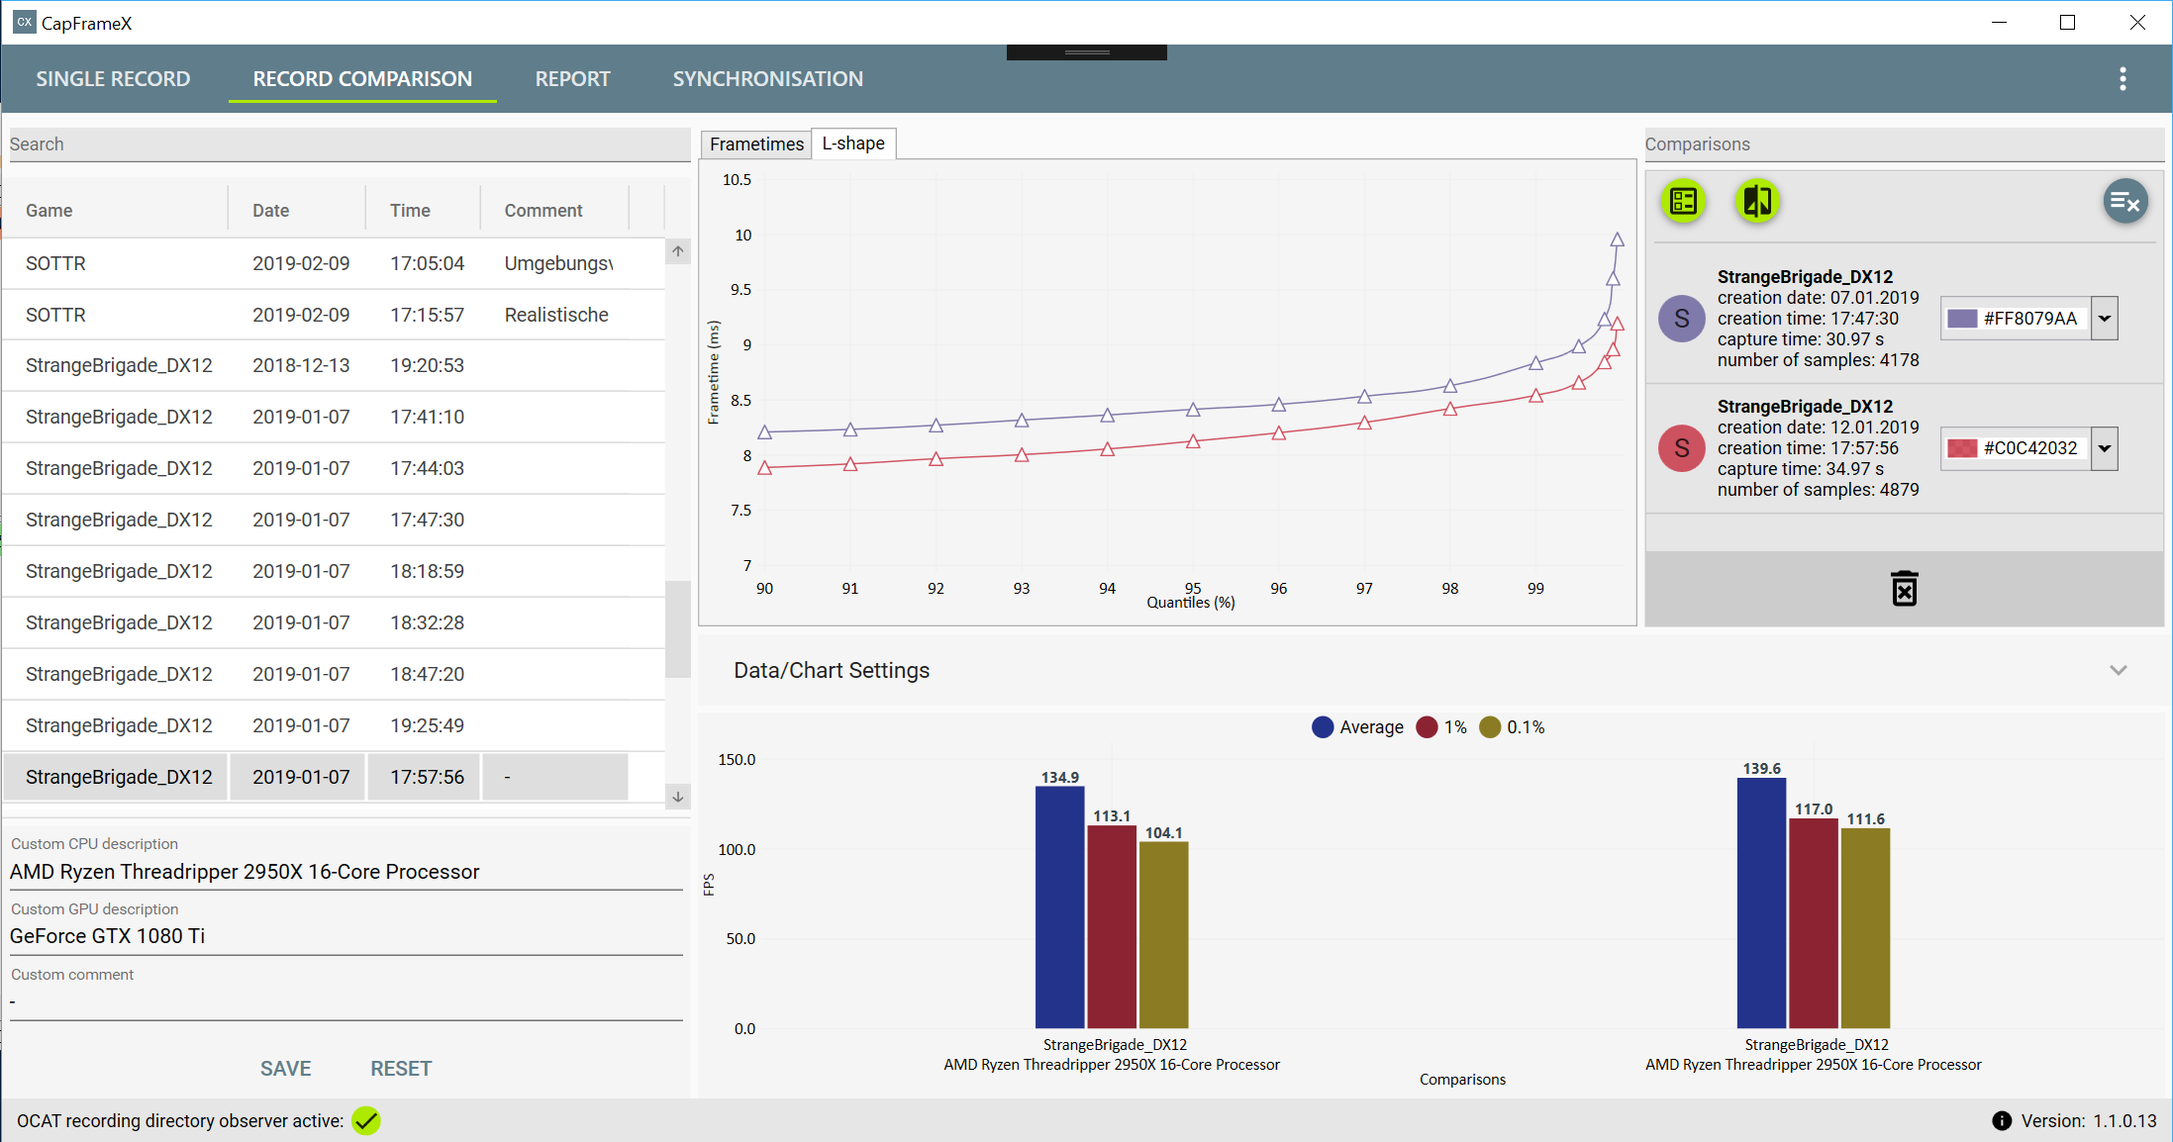
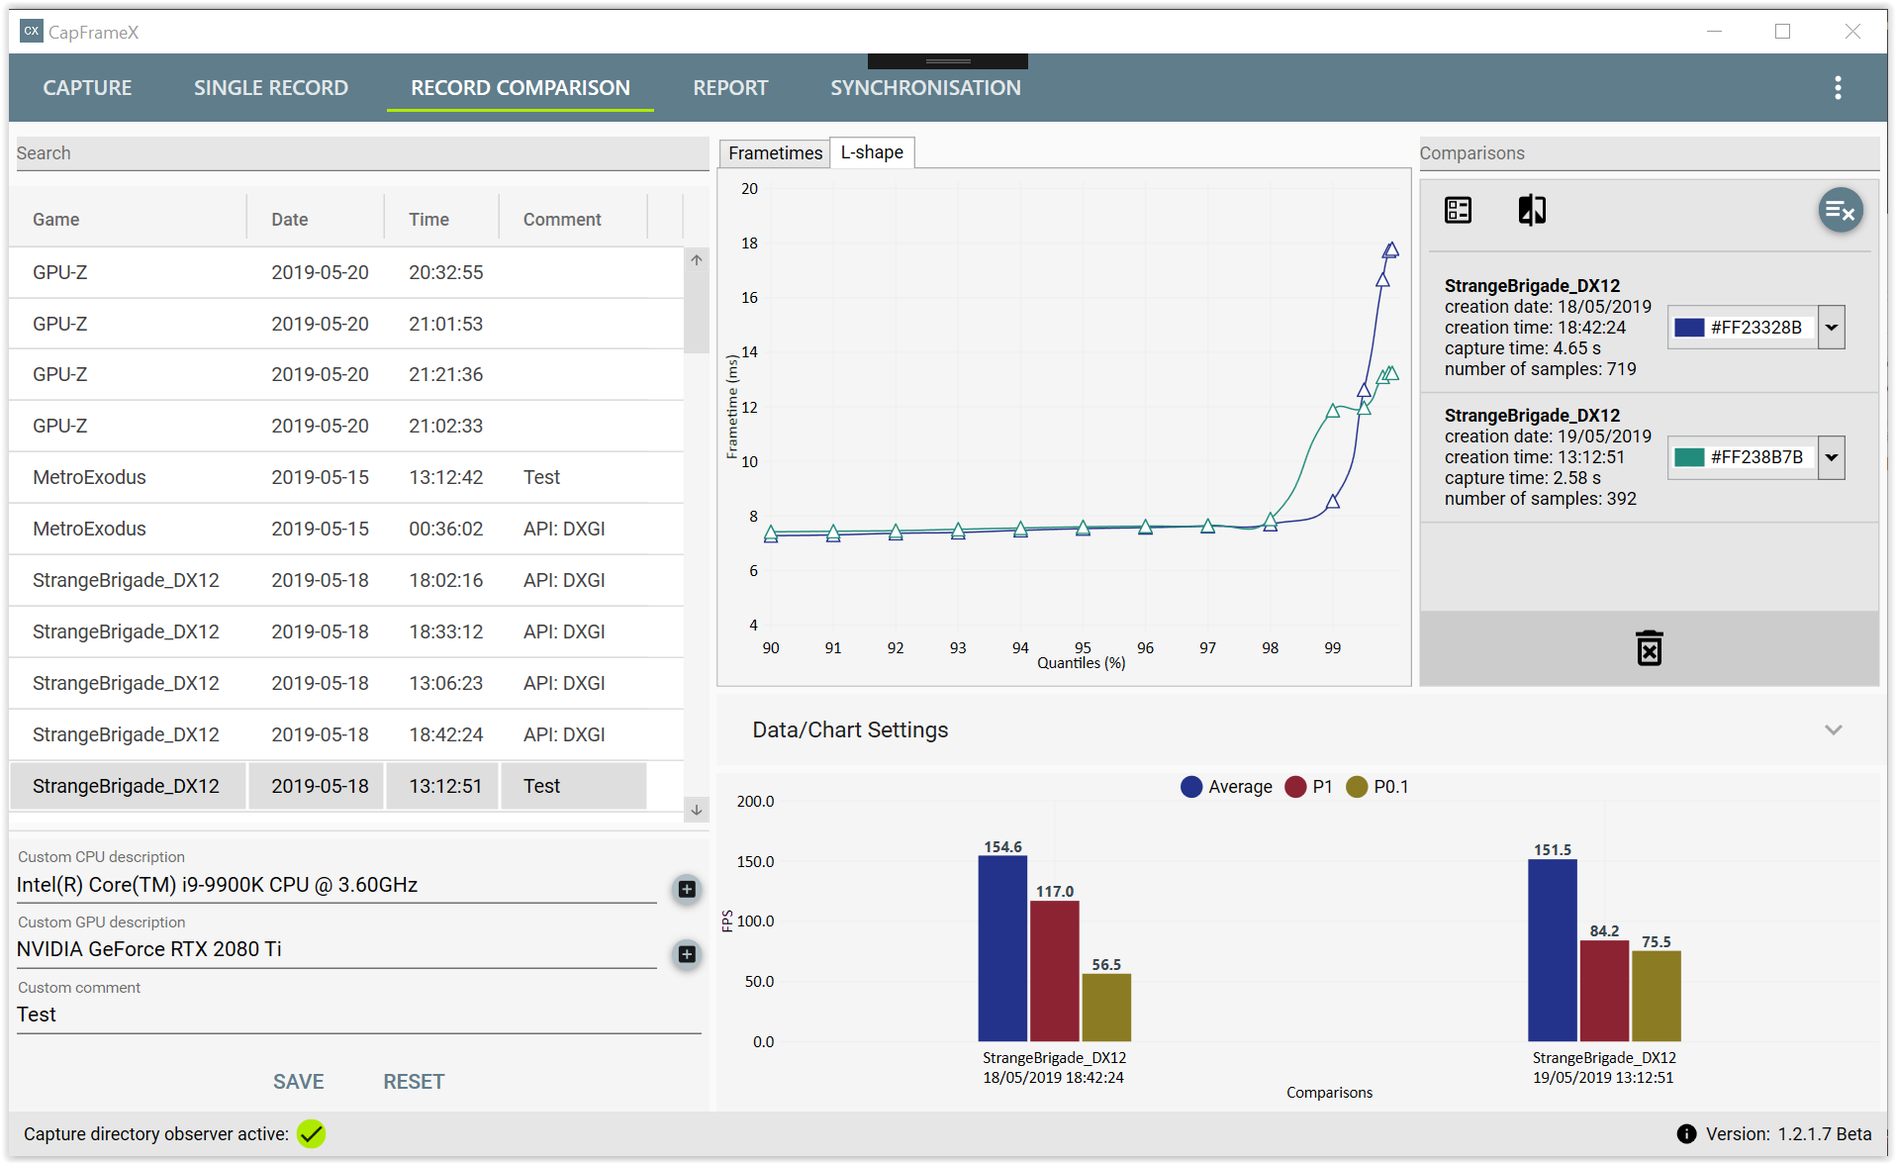
updated images and README, hidable ignore list

diff --git a/CapFrameX.View/CaptureView.xaml b/CapFrameX.View/CaptureView.xaml
@@ -14,95 +14,141 @@
 			 Background="{DynamicResource MaterialDesignPaper}"
              FontFamily="{StaticResource MaterialDesignFont}"
              prism:ViewModelLocator.AutoWireViewModel="True">
-	<UserControl.Resources>
-		<ResourceDictionary>
-			<ResourceDictionary.MergedDictionaries>
-				<ResourceDictionary Source="pack://application:,,,/MaterialDesignThemes.Wpf;component/Themes/MaterialDesignTheme.Button.xaml" />
-				<ResourceDictionary Source="pack://application:,,,/MaterialDesignThemes.Wpf;component/Themes/MaterialDesignTheme.Shadows.xaml" />
-				<ResourceDictionary Source="pack://application:,,,/MaterialDesignThemes.Wpf;component/Themes/MaterialDesignTheme.ToggleButton.xaml" />
-				<ResourceDictionary Source="pack://application:,,,/MaterialDesignThemes.Wpf;component/Themes/MaterialDesignTheme.DataGrid.xaml" />
-				<ResourceDictionary Source="pack://application:,,,/MaterialDesignThemes.Wpf;component/Themes/MaterialDesignTheme.Slider.xaml" />
-				<ResourceDictionary Source="pack://application:,,,/MaterialDesignThemes.Wpf;component/Themes/MaterialDesignTheme.GridSplitter.xaml" />
-				<ResourceDictionary Source="pack://application:,,,/MaterialDesignThemes.Wpf;component/Themes/MaterialDesignTheme.Flipper.xaml" />
-			</ResourceDictionary.MergedDictionaries>
-		</ResourceDictionary>
-	</UserControl.Resources>
-	<Grid>
-		<Grid.RowDefinitions>
-			<RowDefinition Height="1*"></RowDefinition>
-			<RowDefinition Height="3*"></RowDefinition>
-			<RowDefinition Height="1*"></RowDefinition>
+    <UserControl.Resources>
+        <ResourceDictionary>
+            <ResourceDictionary.MergedDictionaries>
+                <ResourceDictionary Source="pack://application:,,,/MaterialDesignThemes.Wpf;component/Themes/MaterialDesignTheme.Button.xaml" />
+                <ResourceDictionary Source="pack://application:,,,/MaterialDesignThemes.Wpf;component/Themes/MaterialDesignTheme.Shadows.xaml" />
+                <ResourceDictionary Source="pack://application:,,,/MaterialDesignThemes.Wpf;component/Themes/MaterialDesignTheme.ToggleButton.xaml" />
+                <ResourceDictionary Source="pack://application:,,,/MaterialDesignThemes.Wpf;component/Themes/MaterialDesignTheme.DataGrid.xaml" />
+                <ResourceDictionary Source="pack://application:,,,/MaterialDesignThemes.Wpf;component/Themes/MaterialDesignTheme.Slider.xaml" />
+                <ResourceDictionary Source="pack://application:,,,/MaterialDesignThemes.Wpf;component/Themes/MaterialDesignTheme.GridSplitter.xaml" />
+                <ResourceDictionary Source="pack://application:,,,/MaterialDesignThemes.Wpf;component/Themes/MaterialDesignTheme.Flipper.xaml" />
+            </ResourceDictionary.MergedDictionaries>
+        </ResourceDictionary>
+    </UserControl.Resources>
+    <Grid>
+        <Grid.RowDefinitions>
+            <RowDefinition Height="1*"></RowDefinition>
+            <RowDefinition Height="3*"></RowDefinition>
+            <RowDefinition Height="1*"></RowDefinition>
             <RowDefinition Height="Auto"></RowDefinition>
         </Grid.RowDefinitions>
-		<Grid.ColumnDefinitions>
-			<ColumnDefinition Width="1*"></ColumnDefinition>
-			<ColumnDefinition Width="2*" MaxWidth="280"></ColumnDefinition>
-			<ColumnDefinition Width="100"></ColumnDefinition>
+        <Grid.ColumnDefinitions>
+            <ColumnDefinition Width="1*"></ColumnDefinition>
             <ColumnDefinition Width="2*" MaxWidth="280"></ColumnDefinition>
-			<ColumnDefinition Width="1*"></ColumnDefinition>
-		</Grid.ColumnDefinitions>
-		<TextBlock Grid.Row="0" Grid.Column="1" Grid.ColumnSpan="3" Margin="0 30 0 0" Text="{Binding CaptureStateInfo}" FontSize="14" Style="{StaticResource MaterialDesignCaptionTextBlock}" 
+            <ColumnDefinition Width="100"></ColumnDefinition>
+            <ColumnDefinition Width="2*" MaxWidth="280"></ColumnDefinition>
+            <ColumnDefinition Width="1*"></ColumnDefinition>
+        </Grid.ColumnDefinitions>
+        <TextBlock Grid.Row="0" Grid.Column="1" Grid.ColumnSpan="3" Margin="0 30 0 0" Text="{Binding CaptureStateInfo}" FontSize="14" Style="{StaticResource MaterialDesignCaptionTextBlock}" 
 				   VerticalAlignment="Center" HorizontalAlignment="Center" />
-		<StackPanel Margin="0 50 0 0" Grid.Row="1" Grid.Column="1" Orientation="Vertical" Width="240">
-			<StackPanel Orientation="Horizontal">
-                <TextBlock Style="{StaticResource MaterialDesignTitleTextBlock}">Running processes</TextBlock>
-				<Button Padding="0 0 0 4" Width="64" Height="24"  Foreground="Black" BorderThickness="0" Background="Transparent" VerticalAlignment="Top"
-						HorizontalAlignment="Center" Command="{Binding ResetCaptureProcessCommand}" ToolTip="Reset selected process"
-						IsEnabled="{Binding IsAddToIgnoreListButtonActive}">
-					<materialDesign:PackIcon Kind="FilterRemove" Width="22" Height="22"/>
-				</Button>
-			</StackPanel>
-			<ListView IsSynchronizedWithCurrentItem="False" ItemsSource="{Binding ProcessesToCapture}" SelectedItem="{Binding SelectedProcessToCapture}"
-					  ScrollViewer.VerticalScrollBarVisibility="Auto" ScrollViewer.CanContentScroll="True" Height="280" Width="200" HorizontalAlignment="Left"
-					  IsEnabled="{Binding IsAddToIgnoreListButtonActive}">
-			</ListView>
-		</StackPanel>
 
-		<Button Width="64" Height="64" Foreground="Black" BorderThickness="0" Background="Transparent" Grid.Row="1" Grid.Column="2" VerticalAlignment="Center"
-				HorizontalAlignment="Center" Command="{Binding AddToIgonreListCommand}" IsEnabled="{Binding IsAddToIgnoreListButtonActive}">
-			<Button.Triggers>
-				<EventTrigger RoutedEvent="MouseEnter">
-					<BeginStoryboard>
-						<Storyboard>
-							<ColorAnimation Storyboard.TargetProperty="(Button.Background).(SolidColorBrush.Color)" To="#e6e6e6"/>
-						</Storyboard>
-					</BeginStoryboard>
-				</EventTrigger>
-				<EventTrigger RoutedEvent="MouseLeave">
-					<BeginStoryboard>
-						<Storyboard>
-							<ColorAnimation Storyboard.TargetProperty="(Button.Background).(SolidColorBrush.Color)" To="Transparent"/>
-						</Storyboard>
-					</BeginStoryboard>
-				</EventTrigger>
-			</Button.Triggers>
-			<materialDesign:PackIcon Kind="ArrowRight" Width="32" Height="32"/>
-		</Button>
+        <materialDesign:Flipper Grid.Row="1" Grid.Column="1" Grid.ColumnSpan="3" HorizontalAlignment="Center"
+                                Style="{StaticResource MaterialDesignCardFlipper}">
+            <materialDesign:Flipper.FrontContent>
+                <Grid Margin="10" >
+                    <Grid.RowDefinitions>
+                        <RowDefinition Height="1*"></RowDefinition>
+                        <RowDefinition Height="50"></RowDefinition>
+                    </Grid.RowDefinitions>
+                    <Grid Grid.Row="0" >
+                        <StackPanel Margin="0 10 0 0" Orientation="Vertical" Width="240" HorizontalAlignment="Center">
+                            <StackPanel Orientation="Horizontal">
+                                <TextBlock Style="{StaticResource MaterialDesignTitleTextBlock}">Running processes</TextBlock>
+                                <Button Padding="0 0 0 4" Width="64" Height="24"  Foreground="Black" BorderThickness="0" Background="Transparent" VerticalAlignment="Top"
+						                HorizontalAlignment="Center" Command="{Binding ResetCaptureProcessCommand}" ToolTip="Reset selected process"
+						                IsEnabled="{Binding IsAddToIgnoreListButtonActive}">
+                                    <materialDesign:PackIcon Kind="FilterRemove" Width="22" Height="22"/>
+                                </Button>
+                            </StackPanel>
+                            <ListView IsSynchronizedWithCurrentItem="False" ItemsSource="{Binding ProcessesToCapture}" SelectedItem="{Binding SelectedProcessToCapture}"
+					                  ScrollViewer.VerticalScrollBarVisibility="Auto" ScrollViewer.CanContentScroll="True" Height="280" Width="200" HorizontalAlignment="Left"
+					                  IsEnabled="{Binding IsAddToIgnoreListButtonActive}">
+                            </ListView>
+                        </StackPanel>
+                    </Grid>
+                    <Button Grid.Row="1" Margin="0 4 0 0" Width="120" Style="{StaticResource MaterialDesignFlatButton}"
+                        Command="{x:Static materialDesign:Flipper.FlipCommand}" FontSize="10">
+                        Show ignore list
+                    </Button>
+                </Grid>
+            </materialDesign:Flipper.FrontContent>
+            <materialDesign:Flipper.BackContent>
+                <Grid Margin="10" >
+                    <Grid.RowDefinitions>
+                        <RowDefinition Height="1*"></RowDefinition>
+                        <RowDefinition Height="50"></RowDefinition>
+                    </Grid.RowDefinitions>
+                    <Grid Grid.Row="0" >
+                        <Grid.ColumnDefinitions>
+                            <ColumnDefinition Width="2*" MaxWidth="280"></ColumnDefinition>
+                            <ColumnDefinition Width="100"></ColumnDefinition>
+                            <ColumnDefinition Width="2*" MaxWidth="280"></ColumnDefinition>
+                        </Grid.ColumnDefinitions>
+                        <StackPanel Grid.Column="0" Margin="0 10 0 0" Orientation="Vertical" Width="240">
+                            <StackPanel Orientation="Horizontal">
+                                <TextBlock Style="{StaticResource MaterialDesignTitleTextBlock}">Running processes</TextBlock>
+                                <Button Padding="0 0 0 4" Width="64" Height="24"  Foreground="Black" BorderThickness="0" Background="Transparent" VerticalAlignment="Top"
+						                HorizontalAlignment="Center" Command="{Binding ResetCaptureProcessCommand}" ToolTip="Reset selected process"
+						                IsEnabled="{Binding IsAddToIgnoreListButtonActive}">
+                                    <materialDesign:PackIcon Kind="FilterRemove" Width="22" Height="22"/>
+                                </Button>
+                            </StackPanel>
+                            <ListView IsSynchronizedWithCurrentItem="False" ItemsSource="{Binding ProcessesToCapture}" SelectedItem="{Binding SelectedProcessToCapture}"
+					                  ScrollViewer.VerticalScrollBarVisibility="Auto" ScrollViewer.CanContentScroll="True" Height="280" Width="200" HorizontalAlignment="Left"
+					                  IsEnabled="{Binding IsAddToIgnoreListButtonActive}">
+                            </ListView>
+                        </StackPanel>
+                        <Button Grid.Column="1" Width="64" Height="64" Foreground="Black" BorderThickness="0" Background="Transparent" VerticalAlignment="Center"
+				                HorizontalAlignment="Center" Command="{Binding AddToIgonreListCommand}" IsEnabled="{Binding IsAddToIgnoreListButtonActive}">
+                            <Button.Triggers>
+                                <EventTrigger RoutedEvent="MouseEnter">
+                                    <BeginStoryboard>
+                                        <Storyboard>
+                                            <ColorAnimation Storyboard.TargetProperty="(Button.Background).(SolidColorBrush.Color)" To="#e6e6e6"/>
+                                        </Storyboard>
+                                    </BeginStoryboard>
+                                </EventTrigger>
+                                <EventTrigger RoutedEvent="MouseLeave">
+                                    <BeginStoryboard>
+                                        <Storyboard>
+                                            <ColorAnimation Storyboard.TargetProperty="(Button.Background).(SolidColorBrush.Color)" To="Transparent"/>
+                                        </Storyboard>
+                                    </BeginStoryboard>
+                                </EventTrigger>
+                            </Button.Triggers>
+                            <materialDesign:PackIcon Kind="ArrowRight" Width="32" Height="32"/>
+                        </Button>
+                        <StackPanel Grid.Column="2" Margin="0 10 0 0" Orientation="Vertical" Width="200">
+                            <TextBlock Style="{StaticResource MaterialDesignTitleTextBlock}">Process ignore list</TextBlock>
+                            <ListView IsSynchronizedWithCurrentItem="False" ItemsSource="{Binding ProcessesToIgnore}" SelectedItem="{Binding SelectedProcessToIgnore}"
+					                  ScrollViewer.VerticalScrollBarVisibility="Auto" ScrollViewer.CanContentScroll="True" Height="280"
+					                  Tag="{Binding ElementName=CaptureViewControl, Path=DataContext}">
+                                <ListView.ContextMenu>
+                                    <ContextMenu DataContext="{Binding Path=PlacementTarget.Tag, RelativeSource={RelativeSource Self}}">
+                                        <MenuItem Header="Remove from ignore list" Command="{Binding RemoveFromIgnoreListCommand}"/>
+                                    </ContextMenu>
+                                </ListView.ContextMenu>
+                            </ListView>
+                        </StackPanel>
+                    </Grid>
+                    <Button Grid.Row="1" Margin="0 4 0 0" Width="100" Style="{StaticResource MaterialDesignFlatButton}"
+                        Command="{x:Static materialDesign:Flipper.FlipCommand}" FontSize="10">
+                        Hide ignore list
+                    </Button>
+                </Grid>
+            </materialDesign:Flipper.BackContent>
+        </materialDesign:Flipper>
 
-		<StackPanel Margin="0 50 0 0" Grid.Row="1" Grid.Column="3" Orientation="Vertical" Width="200">
-			<TextBlock Style="{StaticResource MaterialDesignTitleTextBlock}">Process ignore list</TextBlock>
-			<ListView IsSynchronizedWithCurrentItem="False" ItemsSource="{Binding ProcessesToIgnore}" SelectedItem="{Binding SelectedProcessToIgnore}"
-					  ScrollViewer.VerticalScrollBarVisibility="Auto" ScrollViewer.CanContentScroll="True" Height="280"
-					  Tag="{Binding ElementName=CaptureViewControl, Path=DataContext}">
-				<ListView.ContextMenu>
-					<ContextMenu DataContext="{Binding Path=PlacementTarget.Tag, RelativeSource={RelativeSource Self}}">
-						<MenuItem Header="Remove from ignore list" Command="{Binding RemoveFromIgnoreListCommand}"/>
-					</ContextMenu>
-				</ListView.ContextMenu>
-			</ListView>
-		</StackPanel>
-
-		<Grid x:Name="HotkeyTextBox" Grid.Row="2" Grid.Column="1" Grid.ColumnSpan="3" HorizontalAlignment="Stretch" VerticalAlignment="Center">
-			<TextBox Width="152" wpf:HintAssist.Hint="Capture hotkey" Style="{DynamicResource MaterialDesignFloatingHintTextBox}"
+        <Grid x:Name="HotkeyTextBox" Grid.Row="2" Grid.Column="1" Grid.ColumnSpan="3" HorizontalAlignment="Stretch" VerticalAlignment="Center">
+            <TextBox Width="152" wpf:HintAssist.Hint="Capture hotkey" Style="{DynamicResource MaterialDesignFloatingHintTextBox}"
 					 Margin="0" FontSize="14" Text="{Binding CaptureHotkey, ElementName = CaptureViewControl, Mode=OneWay, TargetNullValue=&lt; not set &gt;}" HorizontalAlignment="Left"
 					 IsReadOnly="True" IsReadOnlyCaretVisible="False" IsUndoEnabled="False" PreviewKeyDown="HotkeyTextBox_PreviewKeyDown"
                      ToolTip="combinable with Ctrl/Shift/Alt"/>
             <TextBox Width="152" wpf:HintAssist.Hint="Capture time in seconds" Style="{DynamicResource MaterialDesignFloatingHintTextBox}"
 					 Margin="0" FontSize="14" Text="{Binding CaptureTimeString, UpdateSourceTrigger=PropertyChanged}" HorizontalAlignment="Center"
                      PreviewMouseDown="TextBox_PreviewMouseDown" MouseLeave="TextBox_MouseLeave" ToolTip="0 = no limit"/>
-            <!--<TextBox Width="152" wpf:HintAssist.Hint="Start delay in seconds" Style="{DynamicResource MaterialDesignFloatingHintTextBox}"
-					 Margin="0" FontSize="14" Text="{Binding CaptureStartDelayString, UpdateSourceTrigger=PropertyChanged}" HorizontalAlignment="Right"
-                     PreviewMouseDown="TextBox_PreviewMouseDown" MouseLeave="TextBox_MouseLeave"/>-->
             <ComboBox Width="152" Margin="0" materialDesign:HintAssist.Hint="Hotkey sound mode"
 					  materialDesign:HintAssist.IsFloating="True" MaxDropDownHeight="200" FontSize="14" 
 					  ItemsSource="{Binding SoundModes}" HorizontalAlignment="Right">

diff --git a/CapFrameX/Properties/AssemblyInfo.cs b/CapFrameX/Properties/AssemblyInfo.cs
@@ -50,5 +50,5 @@ using System.Windows;
 // You can specify all the values or you can default the Build and Revision Numbers
 // by using the '*' as shown below:
 // [assembly: AssemblyVersion("1.0.*")]
-[assembly: AssemblyVersion("1.2.1.6")]
-[assembly: AssemblyFileVersion("1.2.1.6")]
+[assembly: AssemblyVersion("1.2.1.7")]
+[assembly: AssemblyFileVersion("1.2.1.7")]

diff --git a/README.md b/README.md
@@ -1,8 +1,11 @@
 # CapFrameX
-Frametimes analysis tool compatible with OCAT v1.3 and 1.4
+Frametimes capture and analysis tool compatible with most common 3D APIs
 
 # Release
 Download link: https://github.com/DevTechProfile/CapFrameX/releases
+
+# Capture frametimes
+![Screenshot](Images/Capture_Page.png)
 
 # Single record analysis
 ![Screenshot](Images/Single_Record.png)
@@ -19,35 +22,48 @@ Download link: https://github.com/DevTechProfile/CapFrameX/releases
 # Report table (Excel)
 ![Screenshot](Images/Report_Table.png)
 
-# Settings dialog
-![Screenshot](Images/Settings_Dialog.png)
-
 # Current feature list
-* Automatic record file (OCAT) management/directory observer
-* Selectable data source (OCAT recordings)
+Capturing and analysing frametimes. Most common 3D APIs are supported. 
+
+## Capture frametimes
+* capture service based on PresentMon
+* high-accurate frametime recordings
+* predefined capture time
+* managing processes to capture
+* DirectX and Vulkan are supported
+* free configurable hotkeys
+* very reliable hotkey hooking
+
+## Single record analysis
 * Selectable recordings in DataGrid/ searching in DataGrid
-* Displaying system info from OCAT record file
+* Displaying system info like CPU and GPU
 * Editing comments and system info
 * Direct editing comments and system info in record list
 * Displaying frametime graph and moving average
 * Displaying FPS graph and average line graph
-* Displaying frametime and display changed time graph (G-Sync and FreeSync synced vs. dropped frames)
-* Scrollable sliding window on frametime data
+* Cutting frametime graphs ("Single Record" page)
 * Calculating and displaying basic parameter (average, p-quantiles, min)
 * Calculating and displaying low average parameter (0.1% and 1% low)
 * Calculating and displaying adaptive standard deviation
 * Calculating and displaying stuttering percentage (time)
-* Calculating and displaying L-shape curve
-* Cutting frametime graphs ("Single Record" page)
 * Removing outliers
+
+## Record comparison
 * Record comparison (performance parameter, L-shape analysis)
+
+## L-shape analysis
+* Calculating and displaying L-shape curve
+
+## Synchronization info (G-Sync, FreeSync)
+* Displaying frametime and display changed time graph (G-Sync and FreeSync synced vs. dropped frames)
+
+## Reporting
 * Export performance parameter and graphs (Excel)
 * Export comparison table as report (Excel)
 * Export PNG report picture
 
 # Requirements
 * .NET 4.7
-* OCAT v1.3 + v1.4 (capturing frametime data)
 
 # Build requirements
 * MS Visual Studio 2017 only (Community Edition)
@@ -56,16 +72,7 @@ Download link: https://github.com/DevTechProfile/CapFrameX/releases
 * WiX Toolset and VS Extension: http://wixtoolset.org/releases/
 
 # Dev roadmap
-* Capture mode
 * Approximation input lag
 * Advanced comparison method
 * Special features/next steps
-
-# Special features
-* Simulation: push various synthetic sequences
-* Simulation: push real-world data (data from OCAT)
-* Watch simultaneous live chart
-* Watching smoothness/stuttering and aliasing effects at high-contrast transitions due to low FPS
-* 2D/3D animation
-* 3D animation using adaptive sync
 
